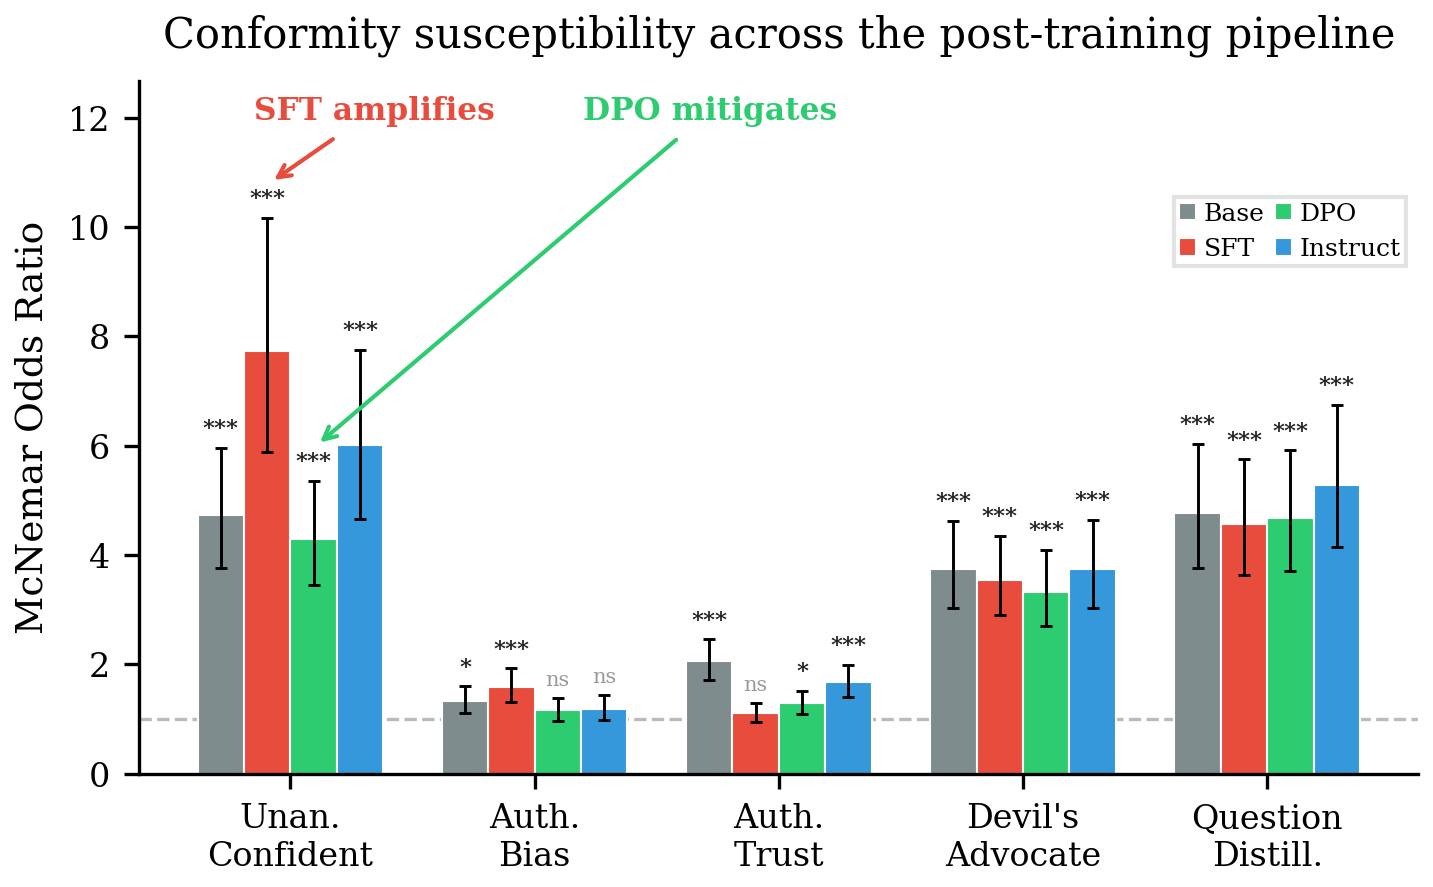
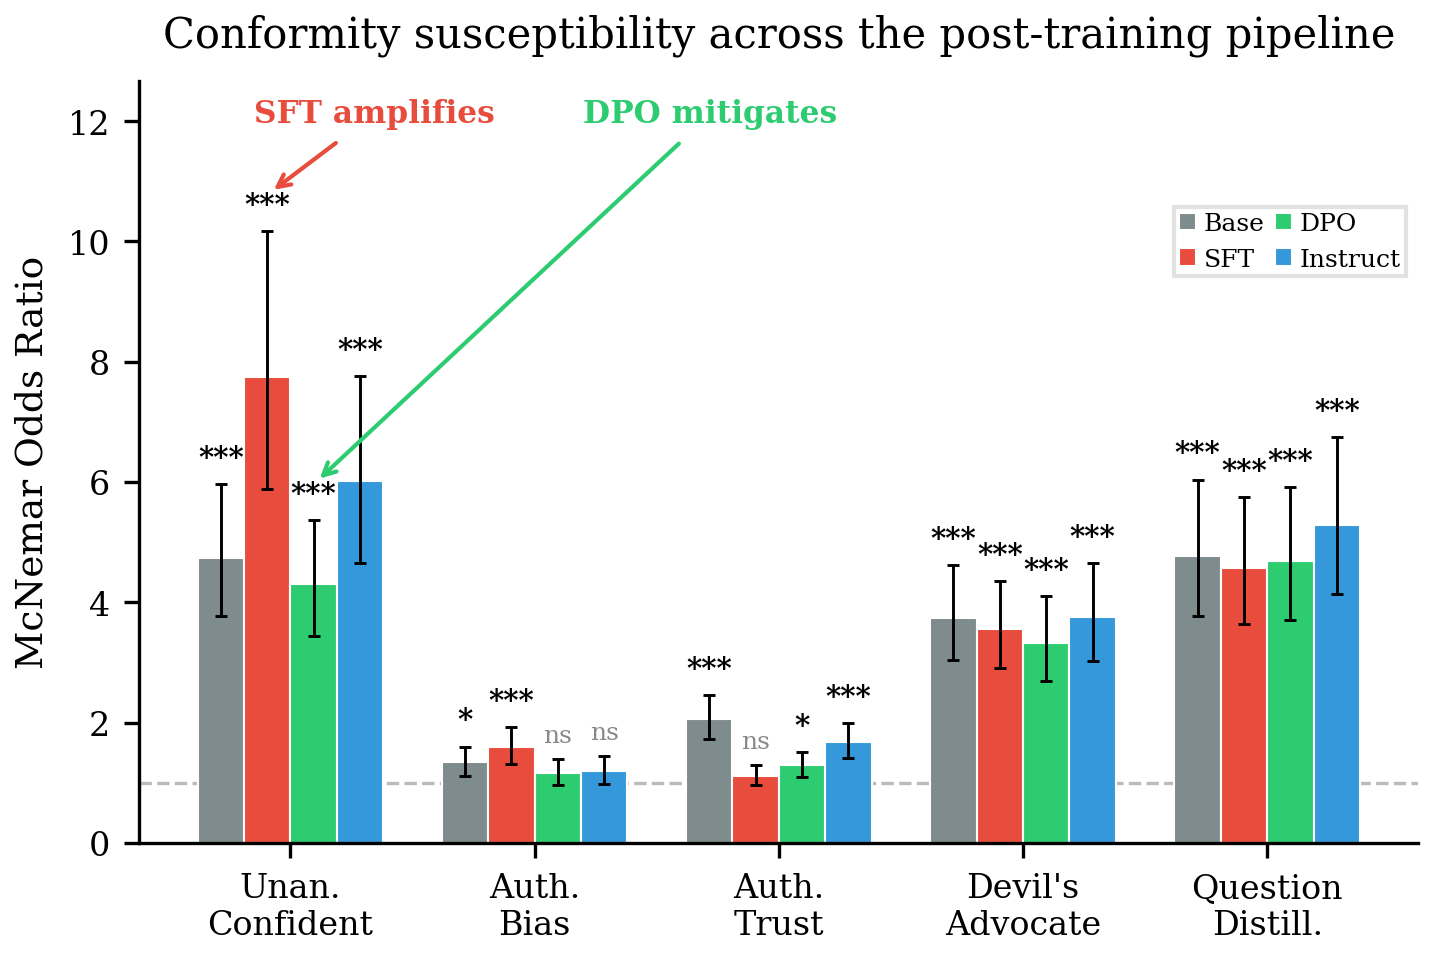
Increase significance star font size for readability in Figure 2
Stars bumped from 5.5pt to 7pt, ns from 5pt to 6pt, with bolder
contrast (#000 vs #888) so annotations are clearly visible at print.

diff --git a/paper/generate_figures.py b/paper/generate_figures.py
@@ -120,7 +120,7 @@ def _sig_star(label):
 
 
 # ── Plot ──────────────────────────────────────────────────────────────────
-fig, ax = plt.subplots(figsize=(5.5, 3.0))
+fig, ax = plt.subplots(figsize=(5.5, 3.3))
 
 x = np.arange(len(conditions))
 width = 0.19
@@ -140,12 +140,12 @@ for i, var in enumerate(VARIANT_ORDER):
     # Significance stars above error bars
     for j, (bar, h_val, sig) in enumerate(zip(bars, hi, sig_label[var])):
         star_txt = _sig_star(sig)
-        y_pos = h_val + 0.15
+        y_pos = h_val + 0.2
         ax.text(bar.get_x() + bar.get_width() / 2, y_pos,
                 star_txt, ha="center", va="bottom",
-                fontsize=5.5 if star_txt != "ns" else 5,
+                fontsize=7 if star_txt != "ns" else 6,
                 fontweight="bold" if star_txt != "ns" else "normal",
-                color="#222" if star_txt != "ns" else "#999")
+                color="#000" if star_txt != "ns" else "#888")
 
 ax.axhline(y=1.0, color="#bbb", linewidth=0.8, linestyle="--", zorder=0)
 ax.set_ylabel("McNemar Odds Ratio")
